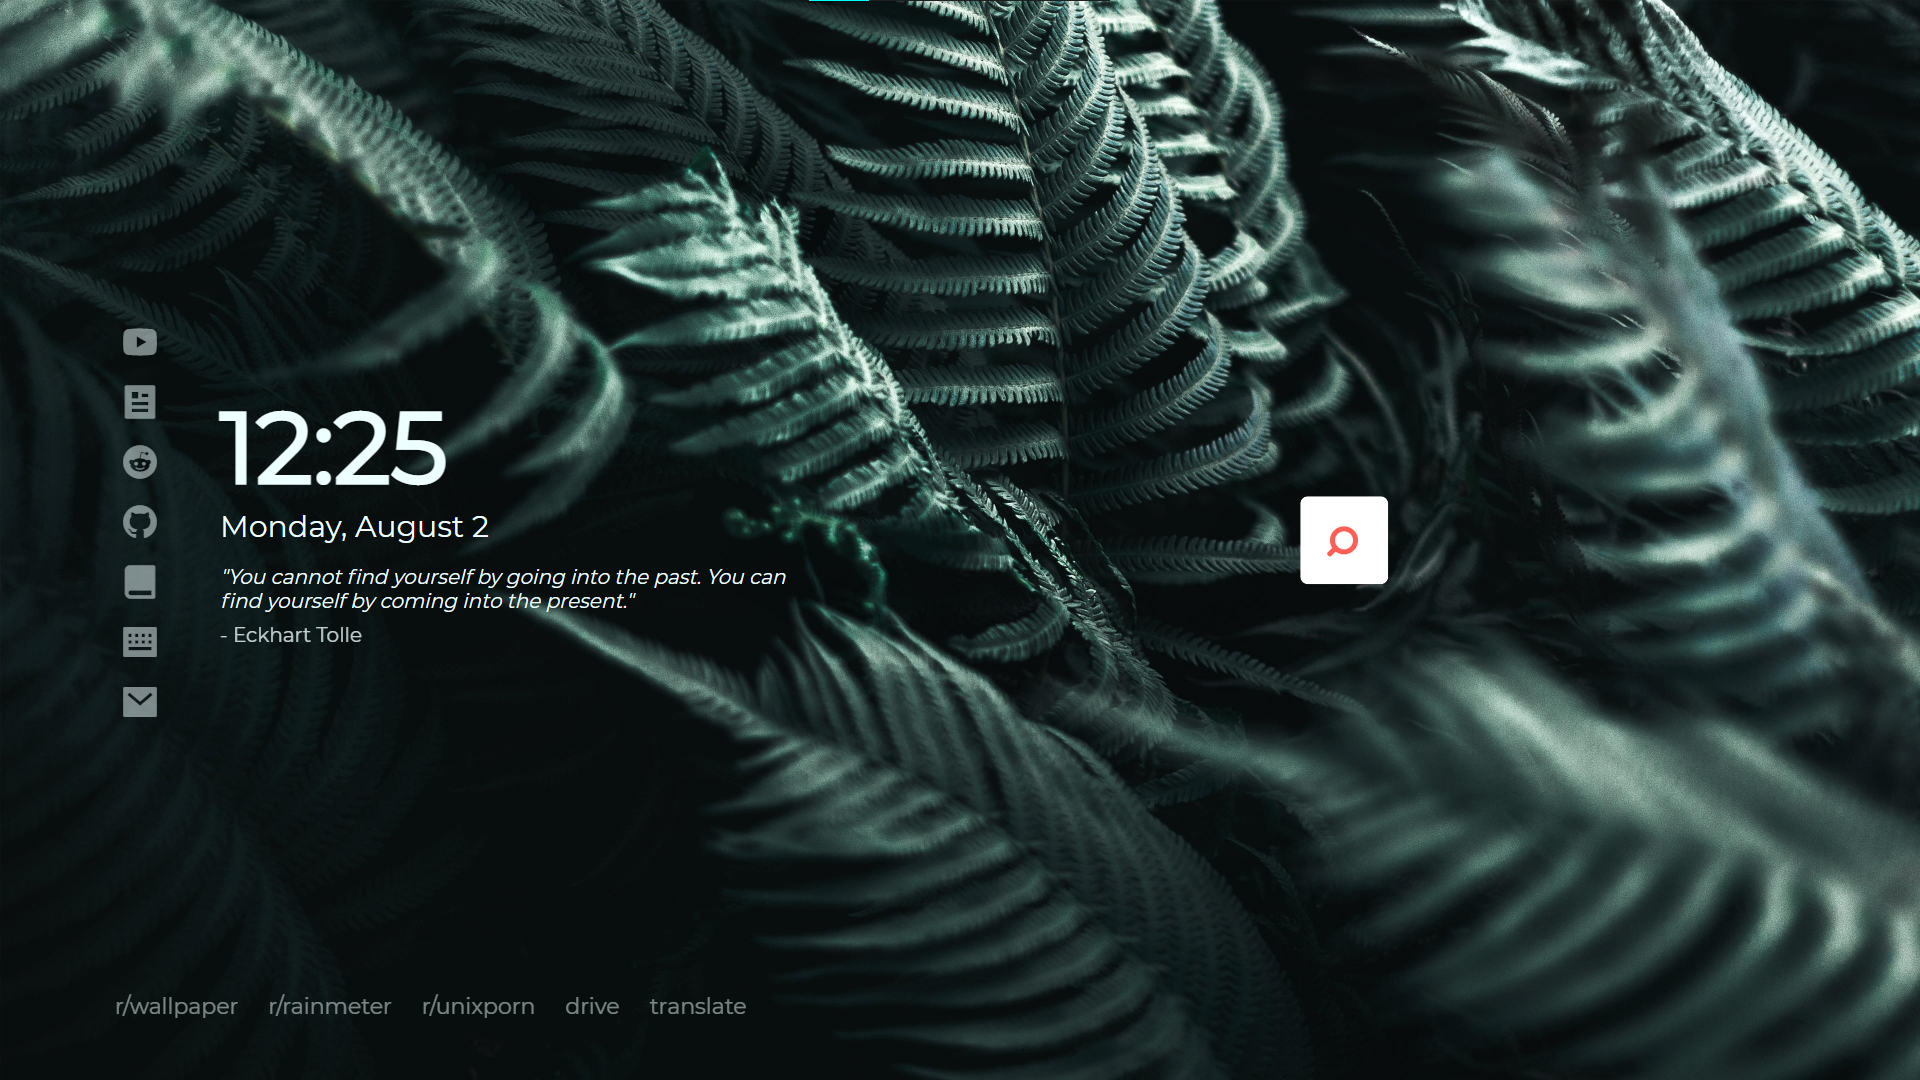
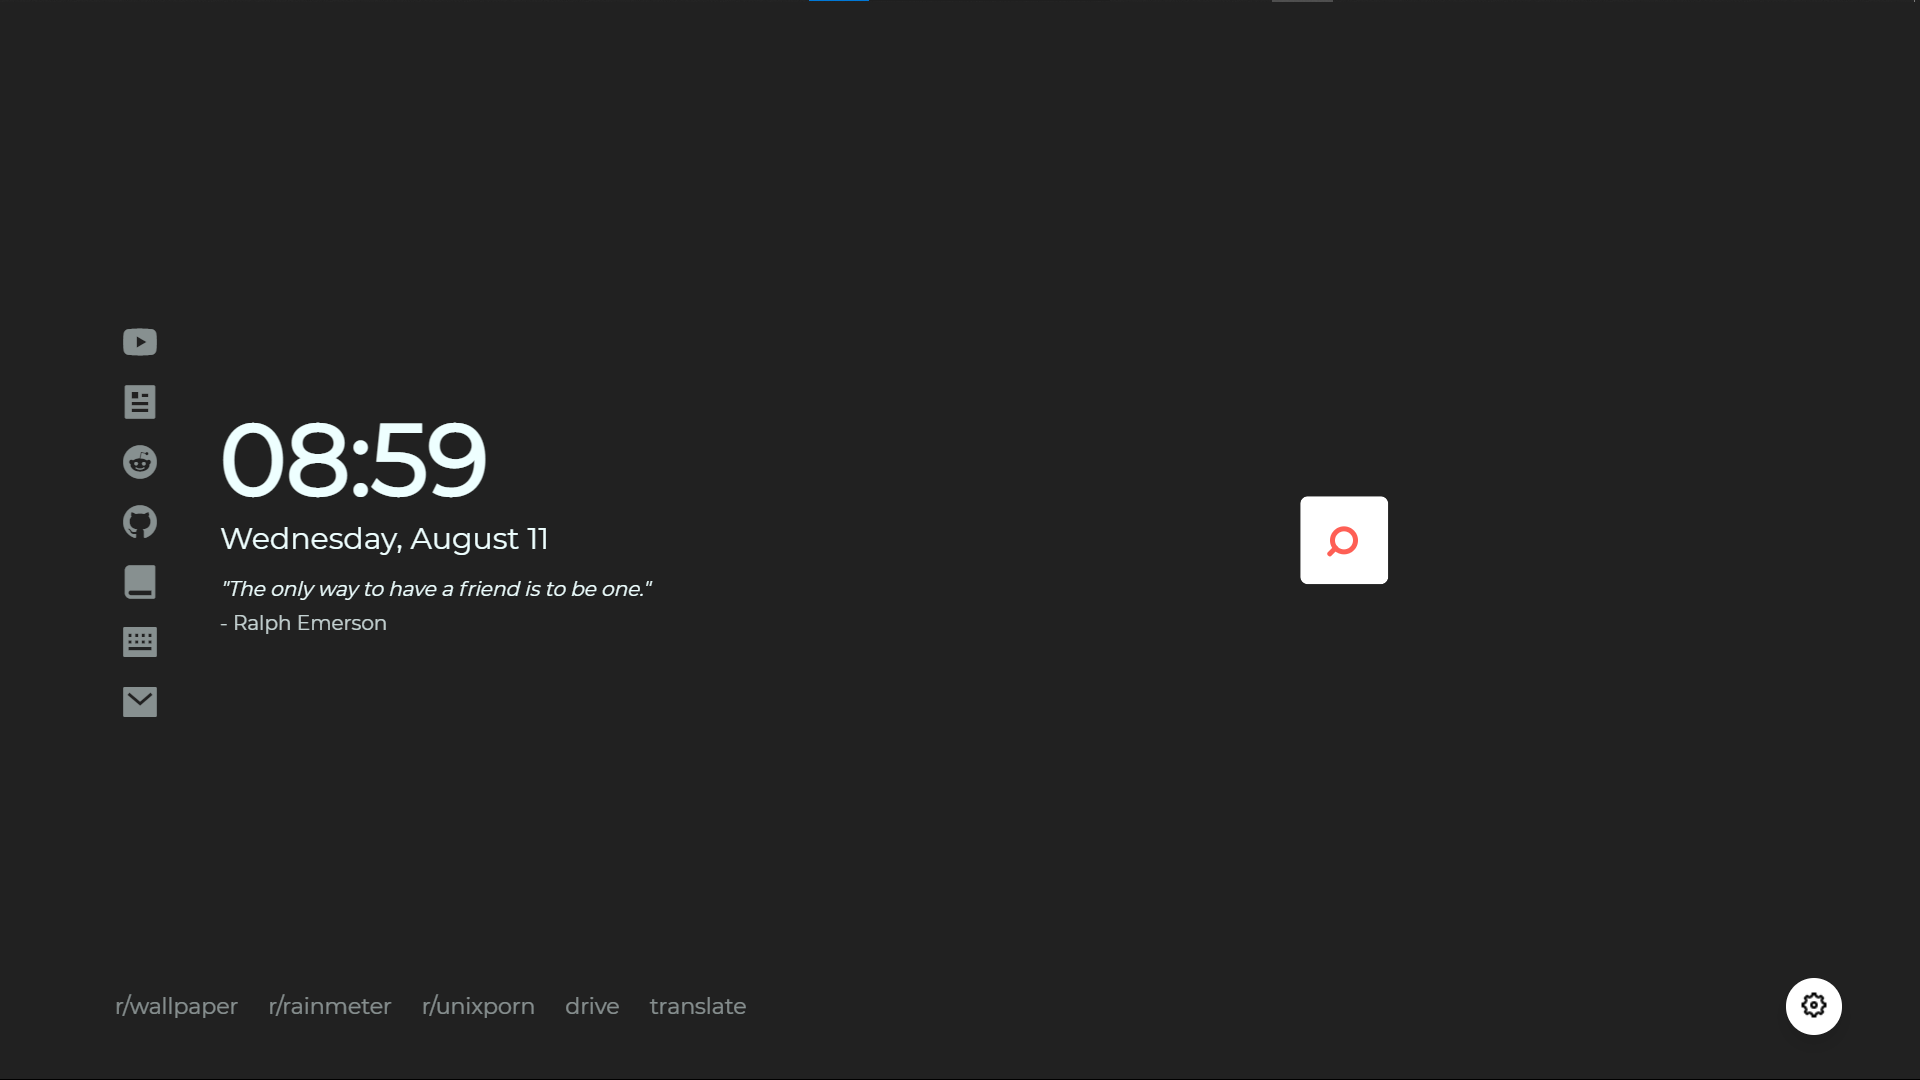
Changed README.md

diff --git a/README.md b/README.md
@@ -13,7 +13,11 @@ Inspiration and a lot of code from:
   * Create a browser integration
 
 ### Images   
-#### Search Collapsed   
+#### Page when first loaded   
 ![Search Collapsed](/images/Scrot1.png "Search Collapsed")
-#### Search Expanded with type   
+#### Page after putting background image
 ![Search Expanded](/images/Scrot2.png "Search Expanded")
+#### Settings menu
+![Settings](/images/scrot3.png "Settings")
+#### Dark mode
+![Dark mode](/images/scrot4.png "Dark mode")
